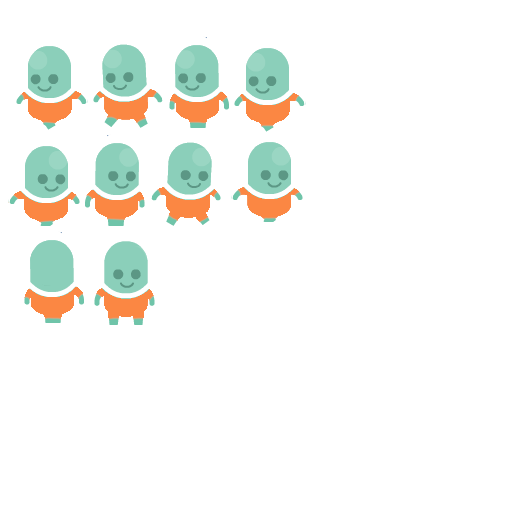
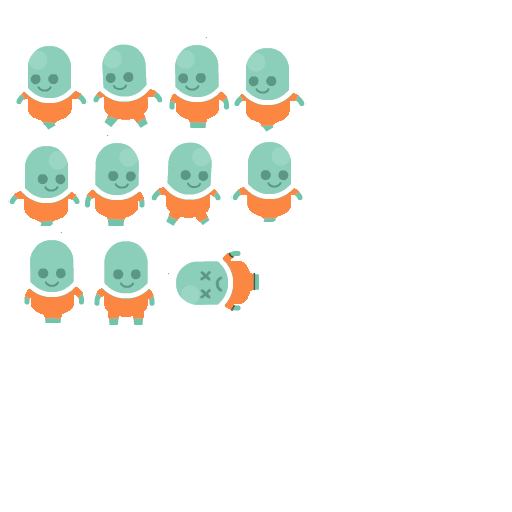
Add player death sprite

Changed region(s): [[0.3438, 0.4688, 0.5312, 0.625], [0.0625, 0.5, 0.125, 0.5625]]

diff --git a/game/src/scenes/scp173/Player.js b/game/src/scenes/scp173/Player.js
@@ -64,6 +64,16 @@ class Player extends Phaser.Physics.Arcade.Sprite {
             frameRate: 10
         })
 
+        this.scene.anims.create({
+            key: "death",
+            frames: this.scene.anims.generateFrameNames("alien", {
+                start: 11,
+                end: 11,
+                prefix: "sprite"
+            }),
+            frameRate: 10
+        })
+
         //  You can either do this:
         this.scene.add.existing(this)
         this.scene.physics.add.existing(this)
@@ -91,5 +101,11 @@ class Player extends Phaser.Physics.Arcade.Sprite {
             this.setVelocityY(0)
             this.anims.play("turn")
         }
+    }
+
+    die(){
+        this.setVelocity(0);
+        this.play("death")
+        //this.scene.start("GameOver")
     }
 }

diff --git a/game/src/scenes/scp173/Enemy.js b/game/src/scenes/scp173/Enemy.js
@@ -12,6 +12,7 @@ class Enemy extends Phaser.Physics.Arcade.Sprite {
                 { key: "enemy", frame: "sprite6" },
             ],
             frameRate: 8,
+            repeat:-1
         })
 
         this.anims.create({
